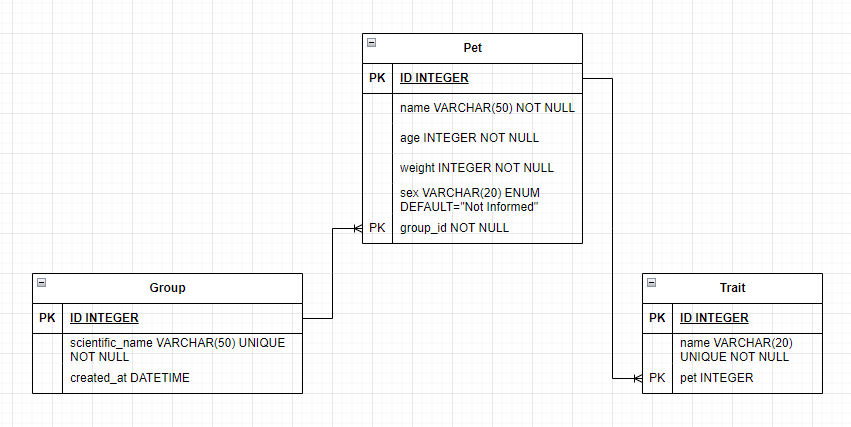
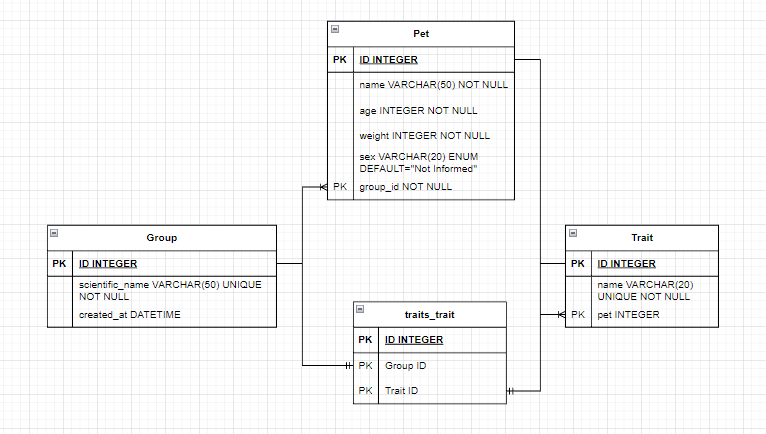
feat: patch function trait

diff --git a/pets/views.py b/pets/views.py
@@ -4,6 +4,7 @@ from rest_framework.views import APIView, Request, Response, status
 from pets.serializer import PetSerializer
 from pets.models import Pet
 from groups.models import Group
+from groups.serializer import GroupSerializer
 from traits.models import Trait
 from traits.serializer import TraitSerializer
 from rest_framework.pagination import PageNumberPagination
@@ -13,12 +14,18 @@ class PetView(APIView, PageNumberPagination):
     def get(self, request: Request):
         dict_response = {}
 
-        dict_response["count"] = Pet.objects.count()
-        all_pets = Pet.objects.all()
-        result_page = self.paginate_queryset(all_pets, request, view=self)
-        serializer = PetSerializer(result_page, many=True)
-
-        return self.get_paginated_response(serializer.data)
+        if not request.query_params.get("trait"):
+            dict_response["count"] = Pet.objects.count()
+            all_pets = Pet.objects.all()
+            result_page = self.paginate_queryset(all_pets, request, view=self)
+            serializer = PetSerializer(result_page, many=True)
+            return self.get_paginated_response(serializer.data)
+        else:
+            find_trait = Trait.objects.filter(name=request.query_params.get("trait")).first()
+            dict_trait = model_to_dict(find_trait)
+            result_page = self.paginate_queryset(dict_trait["pets"], request, view=self)
+            serializer = PetSerializer(result_page, many=True)
+            return self.get_paginated_response(serializer.data)
     
     def post(self, request: Request):
         serialized = PetSerializer(data=request.data)
@@ -41,6 +48,10 @@ class PetView(APIView, PageNumberPagination):
             response_info["group"] = group_items
         else:
             response_info["group"] = group_items
+            
+        if not find_pet:
+            created_pet = Pet.objects.create(**response_info)
+            response_info = model_to_dict(created_pet)
 
         trait_list_appended = []
         for trait in traits_key:
@@ -54,11 +65,7 @@ class PetView(APIView, PageNumberPagination):
                 trait_model_translate = model_to_dict(trait_item)
                 trait_model_translate["created_at"] = trait_item.created_at
                 trait_list_appended.append(trait_model_translate)
-
-
-        if not find_pet:
-            created_pet = Pet.objects.create(**response_info)
-            response_info = model_to_dict(created_pet)
+            trait_item.pets.add(response_info["id"])
 
         to_dict_group = model_to_dict(group_items)
         to_dict_group["created_at"] = group_items.created_at
@@ -103,42 +110,33 @@ class PetByIdView(APIView):
         serialize = PetSerializer(data=request.data, partial=True)
         serialize.is_valid(raise_exception=True)
         serialized_data = dict(serialize.validated_data)
-        
-        if serialized_data["group"]:
+
+        if serialized_data.get("group"):
             pet_group = dict((serialized_data).pop("group"))
             find_group = Group.objects.filter(scientific_name=pet_group["scientific_name"]).first()
             if not find_group:
-                group_items = Group.objects.create(**pet_group)
-                serialized_data["group"] = group_items
-                pet_group = model_to_dict(group_items)
-            else:
-                group_to_dict = model_to_dict(find_group)
-                for key, value in group_to_dict.items():
-                    setattr(find_group, key, value)
-                serialized_data["group"] = find_group
-                pet_group = model_to_dict(find_group)
+                find_group = Group.objects.create(**pet_group)
+            find_pet.group = find_group
 
-        # if serialized_data["traits"]:
-        #     trait_list = []
-        #     pet_trait = (serialized_data).pop("traits")
-        #     for trait in pet_trait:
-        #         trait_dict = dict(trait)
-        #         find_trait = Trait.objects.filter(name=trait_dict["name"]).first()
-        #         if not find_trait:
-        #             trait_items = Trait.objects.create(**trait_dict)
-        #             trait_list.append(model_to_dict(trait_items))
-        #         else:
-        #             trait_list.append(model_to_dict(trait_items))
+        if serialized_data.get("traits"):
+            trait_list = []
+            pet_trait = (serialized_data).pop("traits")
+            for trait in pet_trait:
+                trait_dict = dict(trait)
+                find_trait = Trait.objects.filter(name__iexact=trait_dict["name"]).first()
+                if not find_trait:
+                    find_trait = Trait.objects.create(**trait_dict)
+                trait_list.append(find_trait)
+            find_pet.traits.set(trait_list)
 
         for key, value in serialized_data.items():
             setattr(find_pet, key, value)
 
         find_pet.save()
 
-        returning_dict = model_to_dict(find_pet)
-        returning_dict["group"] = pet_group
-        
-        return Response(returning_dict, status.HTTP_200_OK)
+        returning_dict = PetSerializer(find_pet)
+
+        return Response(returning_dict.data, status.HTTP_200_OK)
     
     
 class PetByTraitView(APIView, PageNumberPagination):
